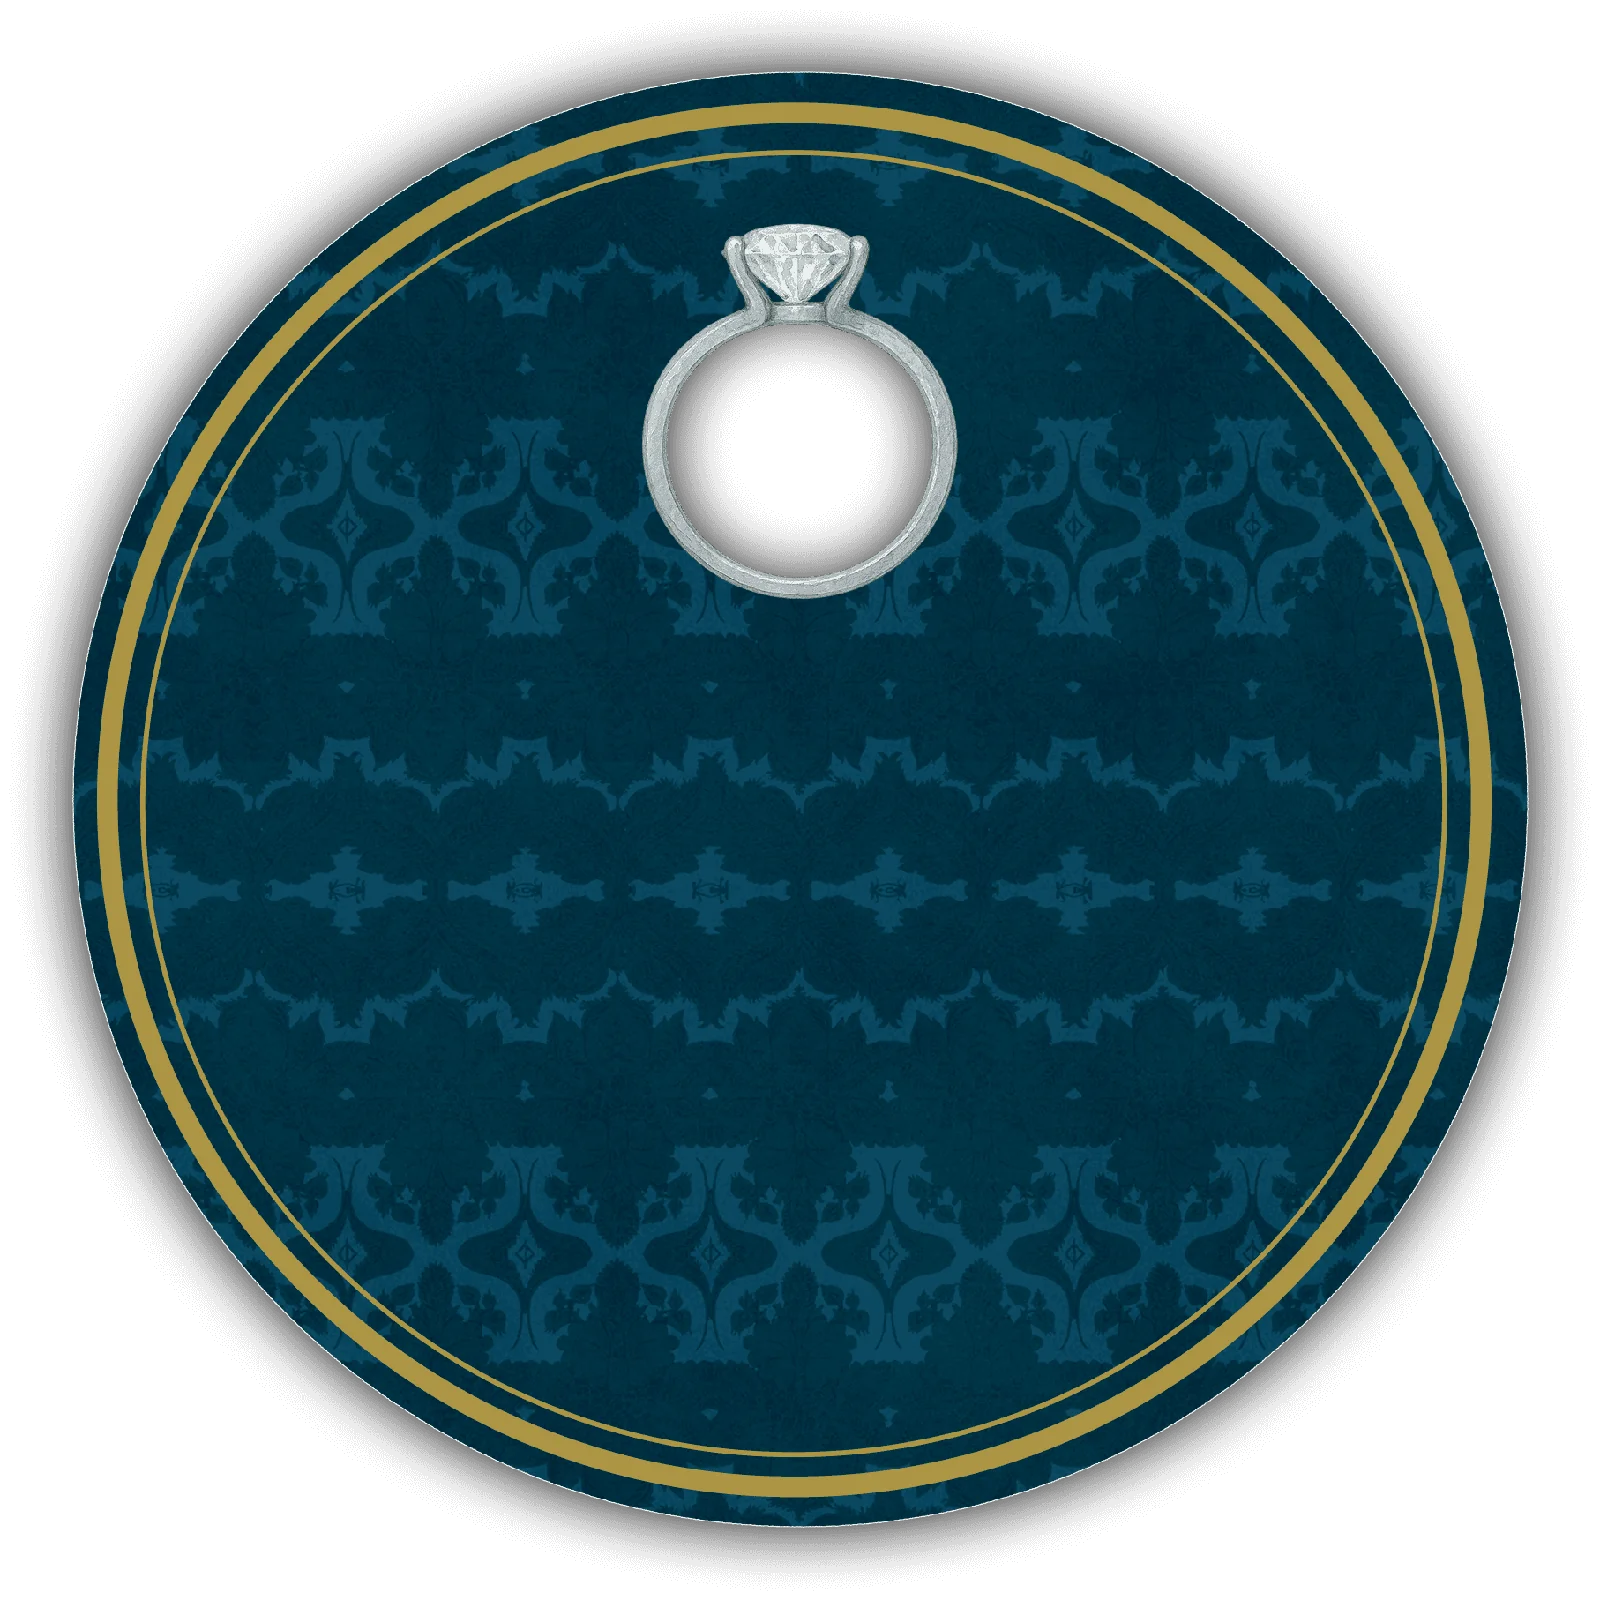
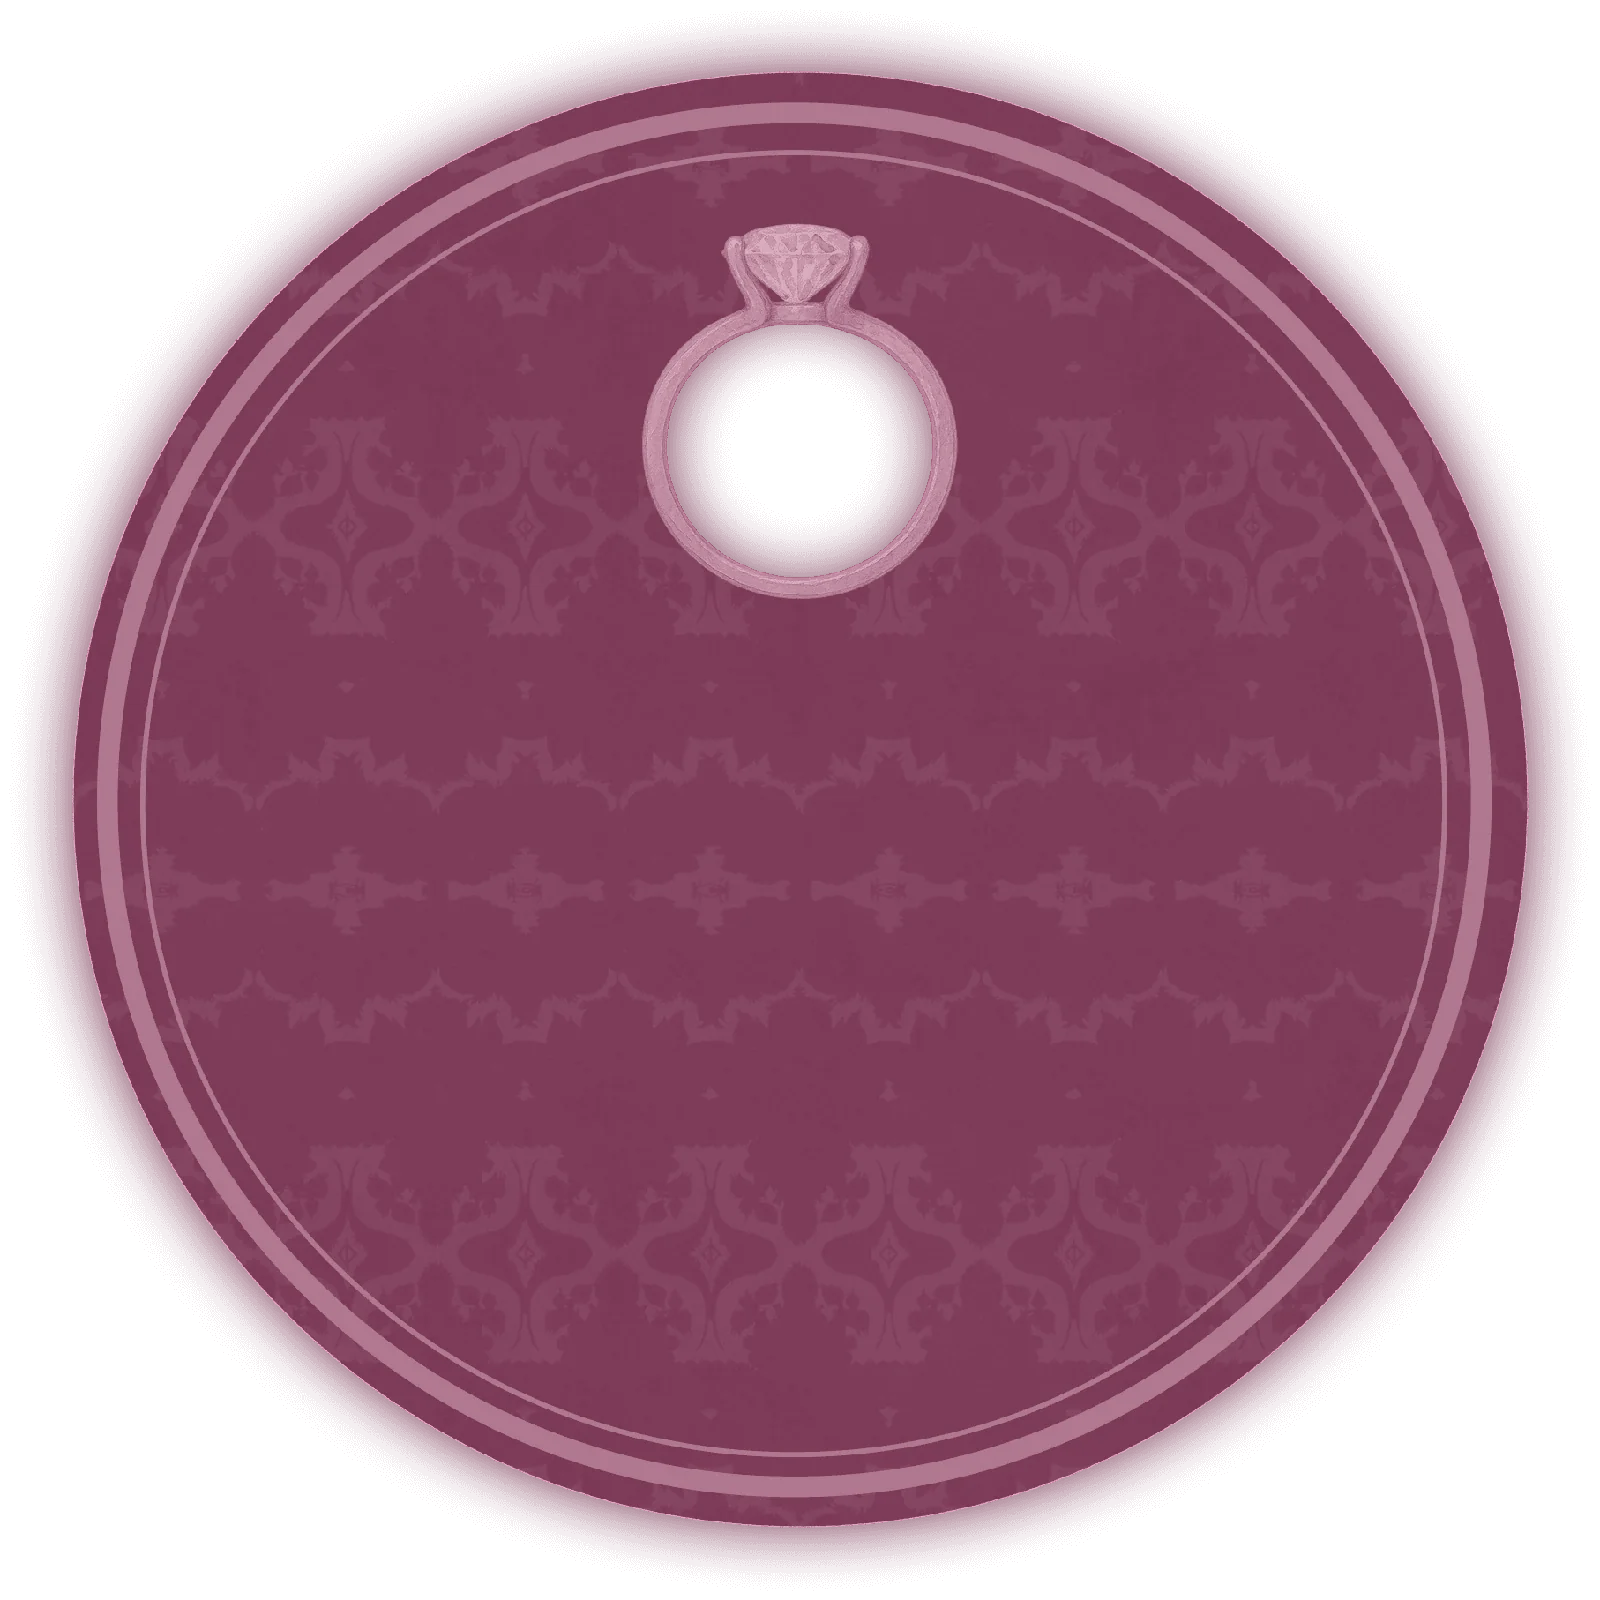
Recolor damask + medallion images to light pink at file level (robust, no brown artifacts); drop CSS filters

diff --git a/index.html b/index.html
@@ -816,21 +816,11 @@ a[href*="missingpiecedesign"] { display: none !important; }
 /* remove the leftover closing line below the countdown */
 [data-framer-name^="Our families are excited"]{display:none !important;}
 
-/* recolor the sage-green damask backdrop to a light blush (matches the pink theme) */
-img[src*="SPr0bvMk9Lu3lQOpXzLoknBPaJo"],
-img[src*="gBnMB6ghHljVUqx9JmFOWkp7Yh4"],
-img[src*="zftzqaNk2eBB4UQosVCKxLTcg"],
-img[src*="j8rC7lVmTCtjwjX0xagtMTxz38"]{
-  filter:brightness(1.32) saturate(0.55) hue-rotate(205deg) sepia(0.12) !important;
-}
-/* recolor the root navy->sage gradient to a light blush so any gap between
-   section backdrops shows light instead of dark olive */
+/* the sage-green/navy damask + "See the route" medallion images were recolored
+   to light pink directly in the webp files (no CSS filter needed).
+   root gradient recolored to light blush so any gap shows light, not dark olive */
 .framer-iSlkH, body{
   background-image:linear-gradient(180deg,#f7e6ea 0%,#f1d6e0 45%,#ecccd5 75%,#ead3cf 100%) !important;
-}
-/* recolor the navy "See the route" medallion to a dusty rose to match */
-img[src*="gpuyLKzQFz8PbRrE1RR3LfnRWw"]{
-  filter:sepia(1) saturate(1.35) hue-rotate(300deg) brightness(1.6) !important;
 }
 
 /* ===== First page replaced by the illustrated poster ===== */
